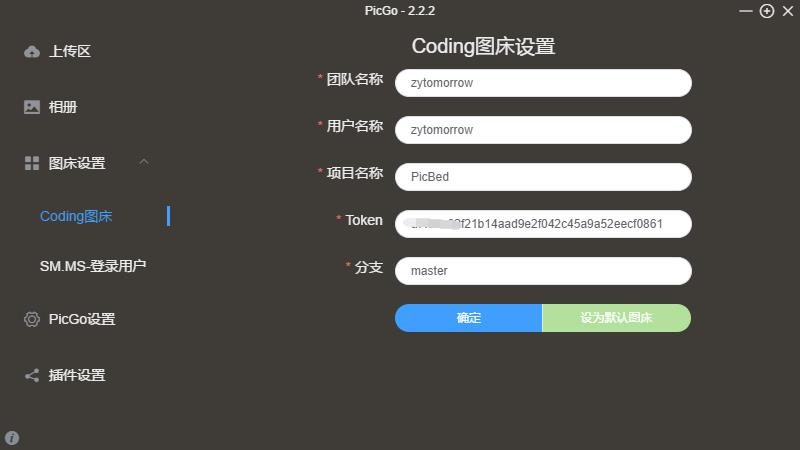
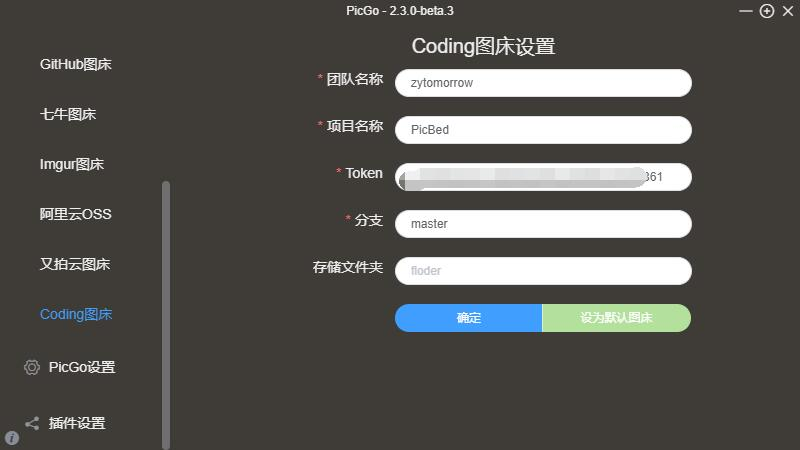
:new: 支持选择存储文件夹

diff --git a/src/index.js b/src/index.js
@@ -40,11 +40,11 @@ module.exports = (ctx) => {
     }
 
     const groupName = userConfig.groupName;
-    const userName = userConfig.userName;
     const project = userConfig.Project;
     const token = userConfig.Token;
     const branch = userConfig.branch || 'master';
-    const realUrl = `https://${groupName}.coding.net/api/user/${userName}/project/${project}/depot/${project}/git/upload/${branch}/`;
+    const floder = userConfig.floder || '';
+    const realUrl = `https://${groupName}.coding.net/api/user/${groupName}/project/${project}/depot/${project}/git/upload/${branch}/${floder}`;
     try {
       const imgList = ctx.output;
       for (const i in imgList) {
@@ -102,14 +102,6 @@ module.exports = (ctx) => {
         alias: '团队名称'
       },
       {
-        name: 'userName',
-        type: 'input',
-        default: userConfig.userName,
-        required: true,
-        message: 'userName',
-        alias: '用户名称'
-      },
-      {
         name: 'Project',
         type: 'input',
         default: userConfig.Project,
@@ -132,6 +124,14 @@ module.exports = (ctx) => {
         required: true,
         message: 'master',
         alias: '分支'
+      },
+      {
+        name: 'floder',
+        type: 'input',
+        default: userConfig.floder,
+        required: false,
+        message: '',
+        alias: '存储文件夹'
       }
     ];
   };
